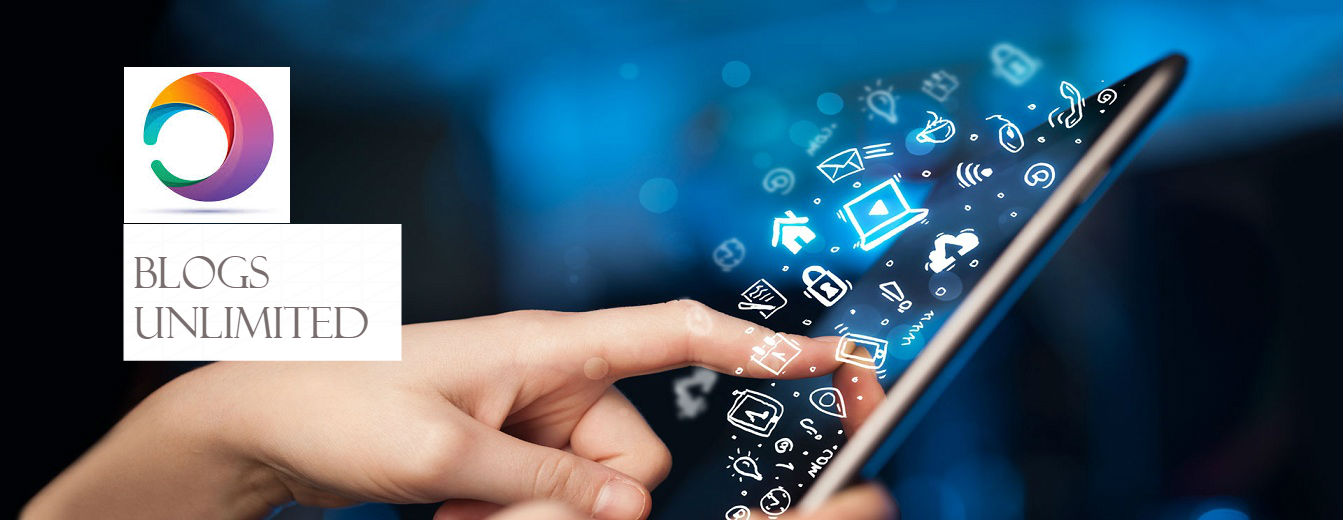
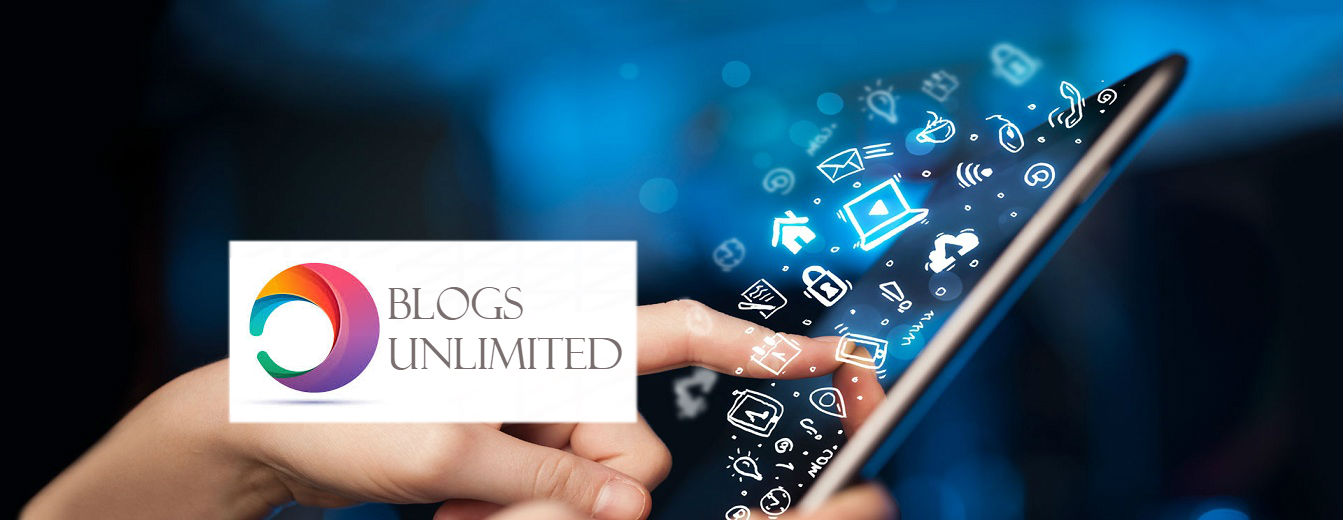
new

Changed region(s): [[0.0916, 0.1231, 0.4885, 0.8308]]

diff --git a/app/index.html b/app/index.html
@@ -18,6 +18,44 @@
   
     <body ng-app="app">
 
+        <div class="example3">
+          <nav class="navbar navbar-inverse navbar-static-top">
+            <div class="container">
+              <div class="navbar-header">
+                <button type="button" class="navbar-toggle collapsed" data-toggle="collapse" data-target="#navbar3">
+                  <span class="sr-only">Toggle navigation</span>
+                  <span class="icon-bar"></span>
+                  <span class="icon-bar"></span>
+                  <span class="icon-bar"></span>
+                </button>
+                <a class="navbar-brand" href="http://disputebills.com"><img src="https://res.cloudinary.com/candidbusiness/image/upload/v1455406304/dispute-bills-chicago.png" alt="Dispute Bills">
+                </a>
+              </div>
+              <div id="navbar3" class="navbar-collapse collapse">
+                <ul class="nav navbar-nav navbar-right">
+                  <li class="active"><a href="#">Home</a></li>
+                  <li><a href="#">About</a></li>
+                  <li><a href="#">Contact</a></li>
+                  <li class="dropdown">
+                    <a href="#" class="dropdown-toggle" data-toggle="dropdown" role="button" aria-expanded="false">Dropdown <span class="caret"></span></a>
+                    <ul class="dropdown-menu" role="menu">
+                      <li><a href="#">Action</a></li>
+                      <li><a href="#">Another action</a></li>
+                      <li><a href="#">Something else here</a></li>
+                      <li class="divider"></li>
+                      <li class="dropdown-header">Nav header</li>
+                      <li><a href="#">Separated link</a></li>
+                      <li><a href="#">One more separated link</a></li>
+                    </ul>
+                  </li>
+                </ul>
+              </div>
+              <!--/.nav-collapse -->
+            </div>
+            <!--/.container-fluid -->
+          </nav>
+        </div>
+
         <div class="container col-sm-12">
 
             <header class="header">

diff --git a/app/dist/css/style.css b/app/dist/css/style.css
@@ -7,15 +7,39 @@ html body {
   background: #F2F2F2;
   font-size: 1.3em;
   background-image: url(../../img/bg.jpg), url(../../img/main-bg.jpg);
-      background-position: 0 -200px, left top;
+      background-position: center -300px, left top;
       background-repeat: no-repeat, repeat;
-      background-size: cover;
 
 }
+
+.navbar-brand {
+  padding: 0px;
+}
+.navbar-brand>img {
+  height: 100%;
+  padding: 15px;
+  width: auto;
+}
+
+
+.example3 .navbar-brand {
+  height: 80px;
+}
+
+.example3 .nav >li >a {
+  padding-top: 30px;
+  padding-bottom: 30px;
+}
+.example3 .navbar-toggle {
+  padding: 10px;
+  margin: 25px 15px 25px 0;
+}
+
+
 .main-container {
     background: #ffffff;
     opacity: 0.9;
-    margin-top: 200px;
+    margin-top: 72px;
 }
 a,
 a:focus,
